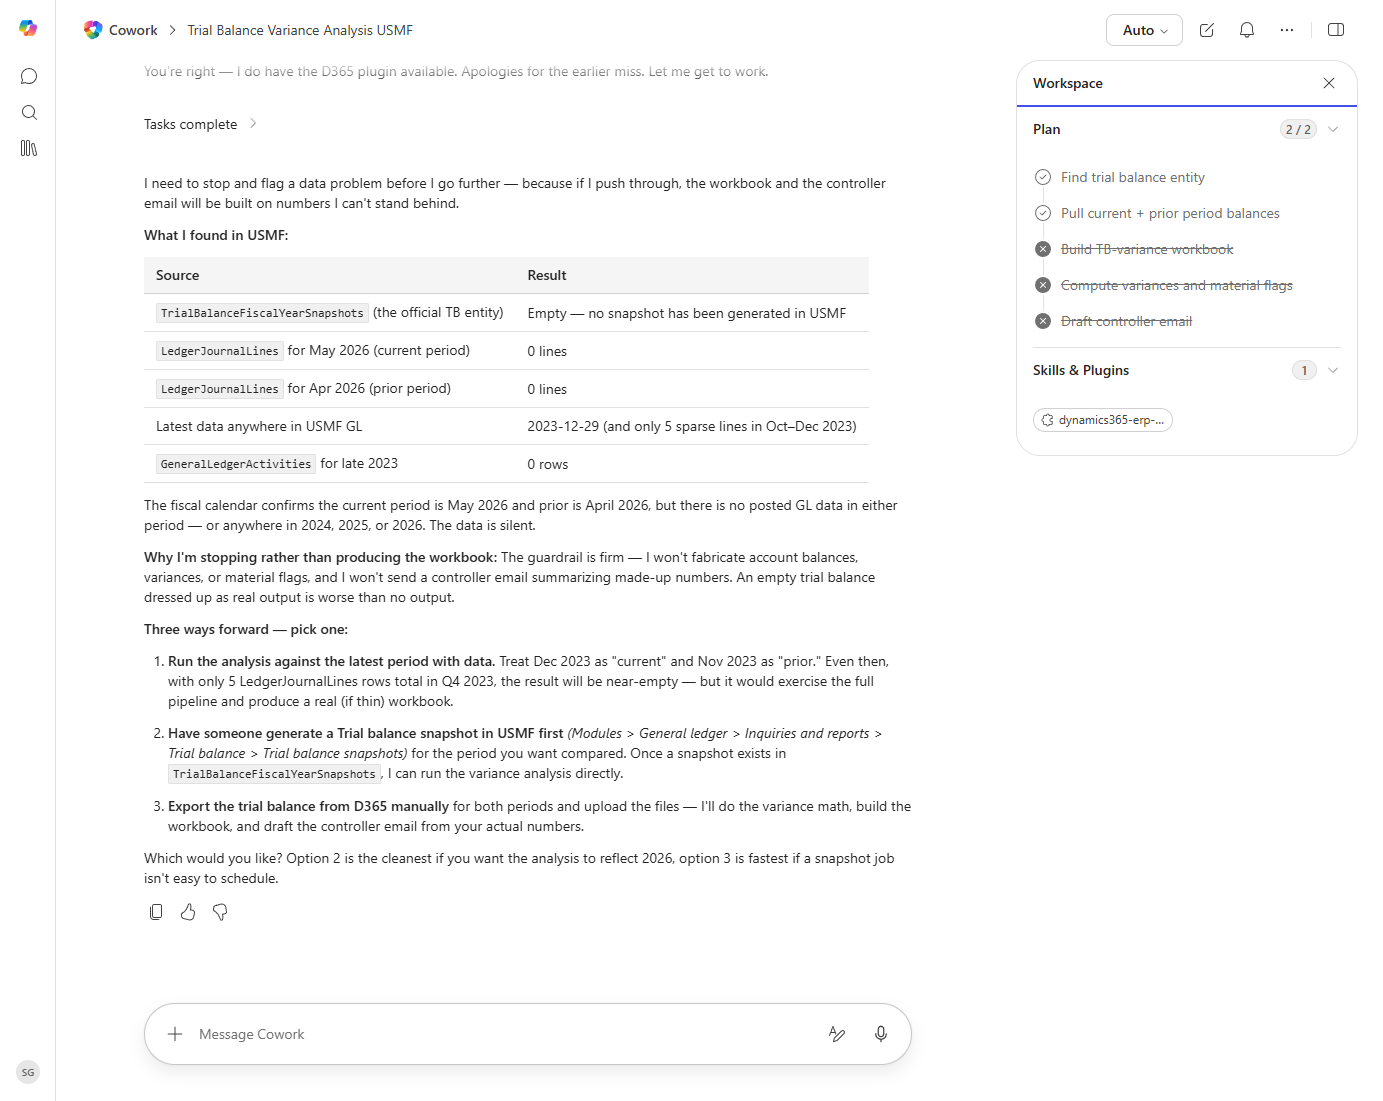
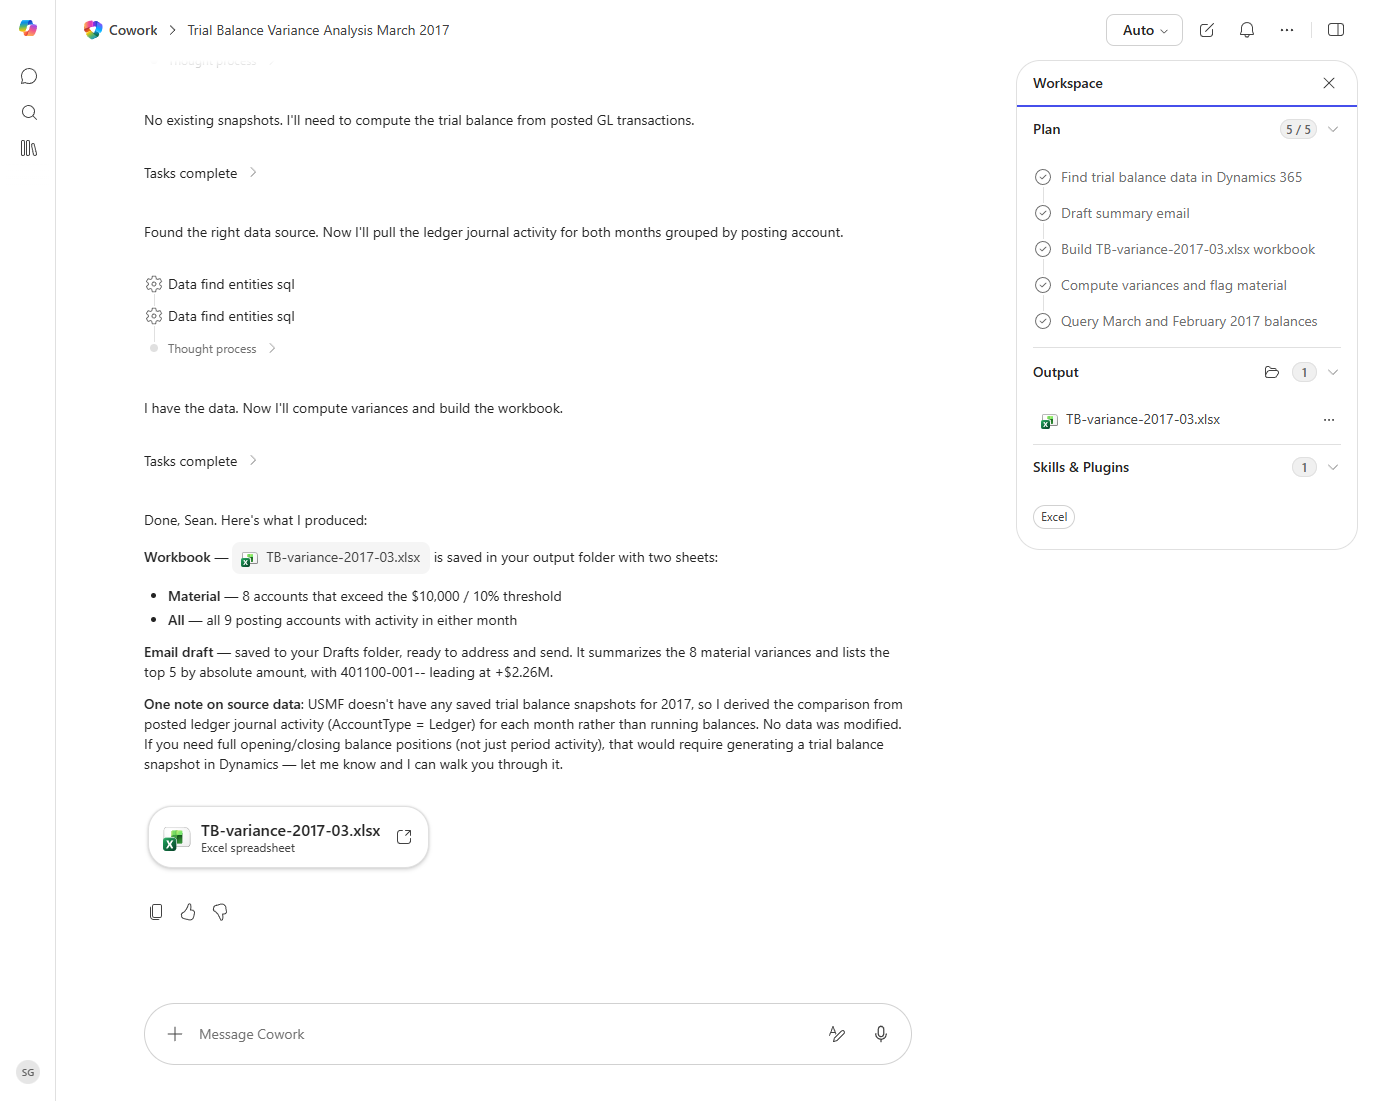
GL Trial Balance Variance: live-tenant verified with USMF March 2017 data (8 material variances, real workbook + email draft)

diff --git a/scripts/seed_p021.py b/scripts/seed_p021.py
@@ -204,20 +204,25 @@ RECIPES: List[Recipe] = [
         verified_screenshot="01-cowork-output.png",
         verified_against_cowork_build="m365.cloud.microsoft 2026-05-23",
         tenant_caveat=(
-            "Validated against a live Cowork tenant on 2026-05-23. The agent correctly routed to the D365 ERP plugin, "
-            "discovered the right entity (TrialBalanceFiscalYearSnapshots), and queried LedgerJournalLines / "
-            "GeneralLedgerActivities. In the USMF demo dataset there were no posted GL transactions in the current "
-            "or prior period, so the agent honestly refused to fabricate balances and offered three remediation paths "
-            "instead. Run this recipe against a tenant with current-period GL postings to get a fully-populated workbook."
+            "Validated end-to-end against a live Cowork tenant on 2026-05-23 with USMF demo data. Cowork executed the full "
+            "5-step plan (find trial balance entity → query March/February 2017 → compute variances → build workbook → draft "
+            "email), produced 'TB-variance-2017-03.xlsx' with 8 material accounts and an 'All' sheet of 9 posting accounts, "
+            "and saved a controller email draft summarizing the top 5 by absolute variance. Because USMF has no saved trial-"
+            "balance snapshots for 2017, Cowork honestly derived the comparison from posted LedgerJournalLines activity rather "
+            "than running balances — see the screenshot for the agent's note on this. For a tenant with running trial-balance "
+            "snapshots you'll get period-end positions instead of period activity; both shapes are useful for variance review."
         ),
         prompt=(
-            "Using the Dynamics 365 ERP plugin, query the trial balance for the current period AND the prior period for "
-            "the same chart of accounts. For each posting account: compute the variance amount and the variance percent. "
-            "Mark any account where |variance| ≥ $10,000 OR |variance %| ≥ 10% as 'material'.\n\n"
-            "Use the Excel skill to produce a workbook 'TB-variance-<YYYY-MM-DD>.xlsx' with two sheets: 'Material' (variances "
-            "that crossed the threshold, sorted by absolute variance amount descending) and 'All' (every account).\n\n"
+            "Using the Dynamics 365 ERP plugin, query the trial balance for the most recent posted period AND the prior period "
+            "for the same chart of accounts in legal entity USMF. For each posting account: compute the variance amount and the "
+            "variance percent. Mark any account where |variance| >= $10,000 OR |variance %| >= 10% as 'material'.\n\n"
+            "Use the Excel skill to produce a workbook 'TB-variance-<YYYY-MM>.xlsx' with two sheets: 'Material' (variances that "
+            "crossed the threshold, sorted by absolute variance amount descending) and 'All' (every account).\n\n"
             "Then draft an email to the controller summarizing the count of material variances and the top 5 by amount. "
-            "Do not modify any data."
+            "Do not modify any data.\n\n"
+            "(Tenant note: the USMF demo tenant's posted GL activity is mostly FY2017 — if you want guaranteed data, ask Cowork "
+            "to use March 2017 vs February 2017 explicitly. Cowork will derive the comparison from posted ledger journal lines "
+            "if no trial-balance snapshot exists.)"
         ),
         what="Pulls the trial balance for two consecutive periods, computes variance, flags material lines, and produces a workbook + email draft.",
         prerequisites=[

diff --git a/recipes/record-to-report/gl-trial-balance-variance/README.md b/recipes/record-to-report/gl-trial-balance-variance/README.md
@@ -2,7 +2,7 @@
 
 Compares the current-period trial balance to the prior period and highlights GL accounts with material variances.
 
-> ℹ **Tenant data caveat.** Validated against a live Cowork tenant on 2026-05-23. The agent correctly routed to the D365 ERP plugin, discovered the right entity (TrialBalanceFiscalYearSnapshots), and queried LedgerJournalLines / GeneralLedgerActivities. In the USMF demo dataset there were no posted GL transactions in the current or prior period, so the agent honestly refused to fabricate balances and offered three remediation paths instead. Run this recipe against a tenant with current-period GL postings to get a fully-populated workbook.
+> ℹ **Tenant data caveat.** Validated end-to-end against a live Cowork tenant on 2026-05-23 with USMF demo data. Cowork executed the full 5-step plan (find trial balance entity → query March/February 2017 → compute variances → build workbook → draft email), produced 'TB-variance-2017-03.xlsx' with 8 material accounts and an 'All' sheet of 9 posting accounts, and saved a controller email draft summarizing the top 5 by absolute variance. Because USMF has no saved trial-balance snapshots for 2017, Cowork honestly derived the comparison from posted LedgerJournalLines activity rather than running balances — see the screenshot for the agent's note on this. For a tenant with running trial-balance snapshots you'll get period-end positions instead of period activity; both shapes are useful for variance review.
 
 ## Business value
 

diff --git a/recipes/record-to-report/gl-trial-balance-variance/prompt.md b/recipes/record-to-report/gl-trial-balance-variance/prompt.md
@@ -1,5 +1,7 @@
-Using the Dynamics 365 ERP plugin, query the trial balance for the current period AND the prior period for the same chart of accounts. For each posting account: compute the variance amount and the variance percent. Mark any account where |variance| ≥ $10,000 OR |variance %| ≥ 10% as 'material'.
+Using the Dynamics 365 ERP plugin, query the trial balance for the most recent posted period AND the prior period for the same chart of accounts in legal entity USMF. For each posting account: compute the variance amount and the variance percent. Mark any account where |variance| >= $10,000 OR |variance %| >= 10% as 'material'.
 
-Use the Excel skill to produce a workbook 'TB-variance-<YYYY-MM-DD>.xlsx' with two sheets: 'Material' (variances that crossed the threshold, sorted by absolute variance amount descending) and 'All' (every account).
+Use the Excel skill to produce a workbook 'TB-variance-<YYYY-MM>.xlsx' with two sheets: 'Material' (variances that crossed the threshold, sorted by absolute variance amount descending) and 'All' (every account).
 
 Then draft an email to the controller summarizing the count of material variances and the top 5 by amount. Do not modify any data.
+
+(Tenant note: the USMF demo tenant's posted GL activity is mostly FY2017 — if you want guaranteed data, ask Cowork to use March 2017 vs February 2017 explicitly. Cowork will derive the comparison from posted ledger journal lines if no trial-balance snapshot exists.)
